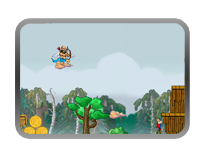
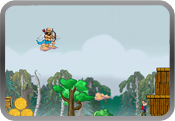
Level select gui

diff --git a/Assets/scripts/LevelSelectGUI.cs b/Assets/scripts/LevelSelectGUI.cs
@@ -7,11 +7,15 @@ public class LevelSelectGUI : MonoBehaviour {
 	public GUISkin buttonSkins;
 	public Texture2D[] buttons;
 	Texture2D[] pageButtons;
+	public Texture2D blankLvBG;
+	public Texture2D pytajnik;
 	public Rect leftButton;
 	public GUIStyle leftButtonStyle;
 	public Rect rightButton;
 	public GUIStyle rightButtonStyle;
 	public GUIStyle style;
+
+	LevelData lvldata;
 
 	int selected = -1;
 	int pageNum = 0;
@@ -19,10 +23,14 @@ public class LevelSelectGUI : MonoBehaviour {
 	// Use this for initialization
 	void Start () {
 		pageButtons = new Texture2D[6];
-
+		lvldata = GameManager.instance.controller.lvdata;
 		for (int i = 0; i < 6 ; i++)
 		{
-			pageButtons[i] = buttons[i];
+			LevelData.LevelInfo info = lvldata.getLevelInfo(i+1);
+			if(info.lvlState == LevelData.LevelState.LOCKED)
+				pageButtons[i] = blankLvBG;
+			else
+				pageButtons[i] = buttons[i];
 		}
 	}
 	
@@ -44,16 +52,30 @@ public class LevelSelectGUI : MonoBehaviour {
 		Rect tempPos = new Rect (0, 0, pos.width, pos.height);
 
 
-		selected = GUI.SelectionGrid(tempPos, selected, pageButtons, 3,style);
+		selected = GUI.SelectionGrid(tempPos, selected, pageButtons, 3, style);
+
+		int lower = (int)(tempPos.y + tempPos.height/2);
+		for(int i = 0; i < 3; i++)
+		{
+			int posx = (int)(tempPos.x + (tempPos.width/3)*(i));
+			Rect firstRow = new Rect(posx,tempPos.y,tempPos.width/3,tempPos.height/2);
+			Rect secondRow = new Rect(posx, lower, tempPos.width/3,tempPos.height/2);
+			drawScores(firstRow,(i+1)+(6*pageNum));
+			drawScores(secondRow,(i+4)+(6*pageNum));
+		}
 
 		GUI.EndGroup ();
 
 		if(selected != -1)
 		{
 			Debug.Log("selected = "+selected);
-			GameManager.instance.controller.setNextLevel(selected+1);
-			GameManager.instance.needReloadMusic = true;
-			Application.LoadLevel("lv"+(selected+1));
+			LevelData.LevelInfo info = lvldata.getLevelInfo(selected+1);
+			if(info.lvlState != LevelData.LevelState.LOCKED)
+			{
+				GameManager.instance.controller.setNextLevel(selected+1);
+				GameManager.instance.needReloadMusic = true;
+				Application.LoadLevel("lv"+(selected+1));
+			}
 		}
 		
 		if(GUI.Button (leftButton,"",leftButtonStyle))
@@ -64,6 +86,7 @@ public class LevelSelectGUI : MonoBehaviour {
 			{
 				pageNum--;
 				reloadPage();
+				Debug.Log("left Button");
 			}
 
 		}
@@ -73,6 +96,7 @@ public class LevelSelectGUI : MonoBehaviour {
 			{
 				pageNum++;
 				reloadPage();
+				Debug.Log("right Button");
 			}
 		}
 	}
@@ -81,12 +105,37 @@ public class LevelSelectGUI : MonoBehaviour {
 	{
 		for (int i = 0; i < 6 ; i++)
 		{
-			pageButtons[i] = buttons[i+(6*pageNum)];
+			LevelData.LevelInfo info = lvldata.getLevelInfo((i+1)+(6*pageNum));
+			if(info.lvlState == LevelData.LevelState.LOCKED)
+				pageButtons[i] = blankLvBG;
+			else
+				pageButtons[i] = buttons[i+(6*pageNum)];
 		}
 	}
 
 	void drawScores(Rect position, int lvlNumber)
 	{
+		Debug.Log ("position: " + position + " lvlnumber: " + lvlNumber);
 
+		GUI.BeginGroup (position);
+
+		LevelData.LevelInfo info = lvldata.getLevelInfo(lvlNumber);
+
+		if(info.lvlState == LevelData.LevelState.LOCKED)
+		{
+			// if level is locked draw just question mark
+			GUI.DrawTexture(new Rect (position.width/2-pytajnik.width/2,
+			                          position.height/2-pytajnik.height/2,pytajnik.width,
+			                          pytajnik.height),
+			                pytajnik);
+		}
+		else
+		{
+			// here we draw all the scores for the level
+
+
+		}
+
+		GUI.EndGroup();
 	}
 }

diff --git a/Assets/scripts/MeetingPoint.cs b/Assets/scripts/MeetingPoint.cs
@@ -9,6 +9,7 @@ public class MeetingPoint : MonoBehaviour {
 	public bool completesLevel = false;
 	public GameObject[] lovers;
 	ParticleSystem partikle;
+	public float winDelay = 5f;
 
 	public AudioClip extraPairSound;
 
@@ -44,7 +45,7 @@ public class MeetingPoint : MonoBehaviour {
 
 		if (loverCount == 2 && completesLevel && !GameManager.instance.controller.levelCompleted)
 		{
-			Invoke("LevelCompleted",5);
+			Invoke("LevelCompleted",winDelay);
 			GameManager.instance.controller.setNextLevel(levelNumber);
 			AudioHelper.CreatePlayAudioObject(extraPairSound);
 			partikle.Play();

diff --git a/Assets/scripts/LevelData.cs b/Assets/scripts/LevelData.cs
@@ -62,6 +62,7 @@ public class LevelData : ScriptableObject {
 			LevelInfo lvl11 = new LevelInfo ( 45, 19, 110);
 			LevelInfo lvl12 = new LevelInfo ( 32, 12, 200);
 
+			lvl1.lvlState = LevelState.UNLOCKED;
 			levels.Add (lvl1);
 			levels.Add (lvl2);
 			levels.Add (lvl3);
